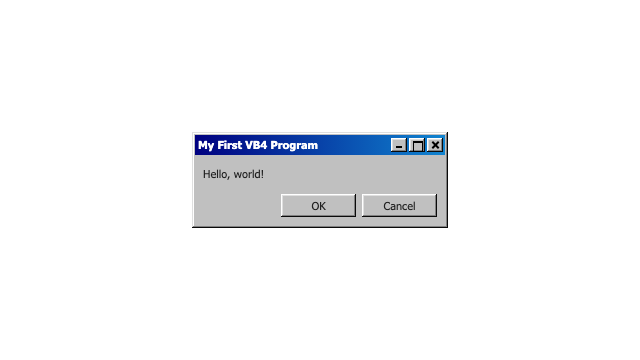
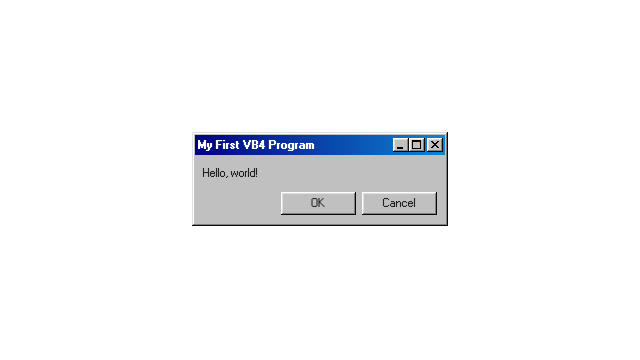
Refine Windows 98 demo fidelity

diff --git a/demo/win98-window.html b/demo/win98-window.html
@@ -6,6 +6,19 @@
   <meta name="color-scheme" content="light">
   <title>Steal to AI | Windows 98 window reconstruction</title>
   <style>
+    /* Pixelated MS Sans Serif from 98.css v0.1.21; see assets/98-css-LICENSE.txt. */
+    @font-face {
+      font-family: "Pixelated MS Sans Serif";
+      src: url("assets/ms_sans_serif.woff2") format("woff2");
+      font-weight: 400;
+      font-display: swap;
+    }
+    @font-face {
+      font-family: "Pixelated MS Sans Serif";
+      src: url("assets/ms_sans_serif_bold.woff2") format("woff2");
+      font-weight: 700;
+      font-display: swap;
+    }
     :root { color-scheme: light; }
     * { box-sizing: border-box; }
     html, body { min-height: 100%; }
@@ -17,12 +30,13 @@
       place-items: center;
       background: #fff;
       color: #222;
-      font: 11px/1.5 Tahoma, Arial, sans-serif;
+      font: 11px/1.5 "Pixelated MS Sans Serif", Arial, sans-serif;
     }
     button { font: inherit; }
     .window {
       width: 256px;
       padding: 3px;
+      transform: translateY(-1px);
       background: #c0c0c0;
       box-shadow: inset -1px -1px #0a0a0a, inset 1px 1px #dfdfdf,
         inset -2px -2px #808080, inset 2px 2px #fff;
@@ -39,7 +53,7 @@
       line-height: 14px;
     }
     .title-bar-title { overflow: hidden; white-space: nowrap; text-overflow: ellipsis; }
-    .title-bar-controls { display: flex; flex: none; gap: 2px; margin-left: 8px; }
+    .title-bar-controls { display: flex; flex: none; margin-left: 8px; }
     .title-bar-controls button, .actions button {
       display: grid;
       place-items: center;
@@ -52,18 +66,40 @@
       cursor: default;
     }
     .title-bar-controls button { position: relative; width: 16px; height: 14px; padding: 0; }
+    .title-bar-controls .close { margin-left: 2px; }
     .title-bar-controls button:active, .actions button:active {
       box-shadow: inset -1px -1px #fff, inset 1px 1px #0a0a0a,
         inset -2px -2px #dfdfdf, inset 2px 2px #808080;
     }
     button:focus-visible { outline: 1px dotted #000; outline-offset: -4px; }
-    .minimize::before { content: ''; position: absolute; left: 5px; bottom: 4px; width: 6px; height: 2px; background: #000; }
-    .maximize::before { content: ''; position: absolute; left: 4px; top: 3px; width: 8px; height: 8px; border: 1px solid #000; border-top-width: 2px; }
-    .close::before, .close::after { content: ''; position: absolute; left: 4px; top: 6px; width: 9px; height: 2px; background: #000; }
-    .close::before { transform: rotate(45deg); }
-    .close::after { transform: rotate(-45deg); }
+    .minimize::before { content: ''; position: absolute; left: 4px; bottom: 3px; width: 6px; height: 2px; background: #000; }
+    .maximize::before { content: ''; position: absolute; left: 3px; top: 2px; width: 9px; height: 9px; background: #000; }
+    .maximize::after { content: ''; position: absolute; left: 4px; top: 4px; width: 7px; height: 6px; background: #c0c0c0; }
+    .close::before {
+      content: '';
+      position: absolute;
+      left: 4px;
+      top: 3px;
+      width: 8px;
+      height: 7px;
+      background:
+        linear-gradient(#000 0 0) 0 0 / 2px 1px,
+        linear-gradient(#000 0 0) 6px 0 / 2px 1px,
+        linear-gradient(#000 0 0) 1px 1px / 2px 1px,
+        linear-gradient(#000 0 0) 5px 1px / 2px 1px,
+        linear-gradient(#000 0 0) 2px 2px / 2px 1px,
+        linear-gradient(#000 0 0) 4px 2px / 2px 1px,
+        linear-gradient(#000 0 0) 3px 3px / 2px 1px,
+        linear-gradient(#000 0 0) 2px 4px / 2px 1px,
+        linear-gradient(#000 0 0) 4px 4px / 2px 1px,
+        linear-gradient(#000 0 0) 1px 5px / 2px 1px,
+        linear-gradient(#000 0 0) 5px 5px / 2px 1px,
+        linear-gradient(#000 0 0) 0 6px / 2px 1px,
+        linear-gradient(#000 0 0) 6px 6px / 2px 1px;
+      background-repeat: no-repeat;
+    }
     .window-body { margin: 8px; }
-    .window-body p { margin: 11px 0; line-height: 16.5px; }
+    .window-body p { margin: 10px 0 11px; line-height: 16.5px; }
     .actions { display: flex; justify-content: flex-end; gap: 6px; }
     .actions button { width: 75px; height: 23px; padding: 0 12px; line-height: 1; }
     @media (max-width: 300px) { body { padding: 12px; } .window { max-width: 100%; } }

diff --git a/README.md b/README.md
@@ -99,7 +99,7 @@ Enable **儲存選取區域截圖** / **Save selected-area screenshot** in the c
 
 ## Component reconstruction demo
 
-The [Windows 98 dialog demo](demo/win98-window.html) reconstructs one component captured from [98.css](https://jdan.github.io/98.css/#button) on a plain white page. The [source-page screenshot](demo/assets/98-css-source.png) is included for visual comparison. The demo is a standalone HTML file and does not include the source site's scripts or layout.
+The [Windows 98 dialog demo](demo/win98-window.html) reconstructs one component captured from [98.css](https://jdan.github.io/98.css/#button) on a plain white page. The [source-page screenshot](demo/assets/98-css-source.png) is included for visual comparison. The demo is a standalone HTML file and does not include the source site's scripts or layout. It uses the Pixelated MS Sans Serif font distributed with 98.css under its [MIT license](demo/assets/98-css-LICENSE.txt).
 
 ## Limits
 
